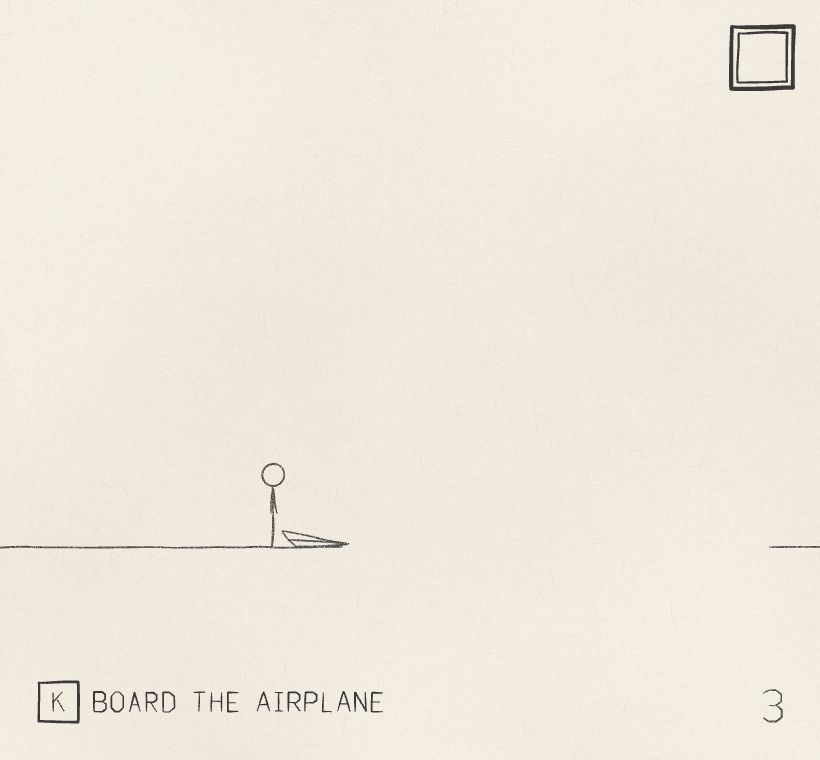
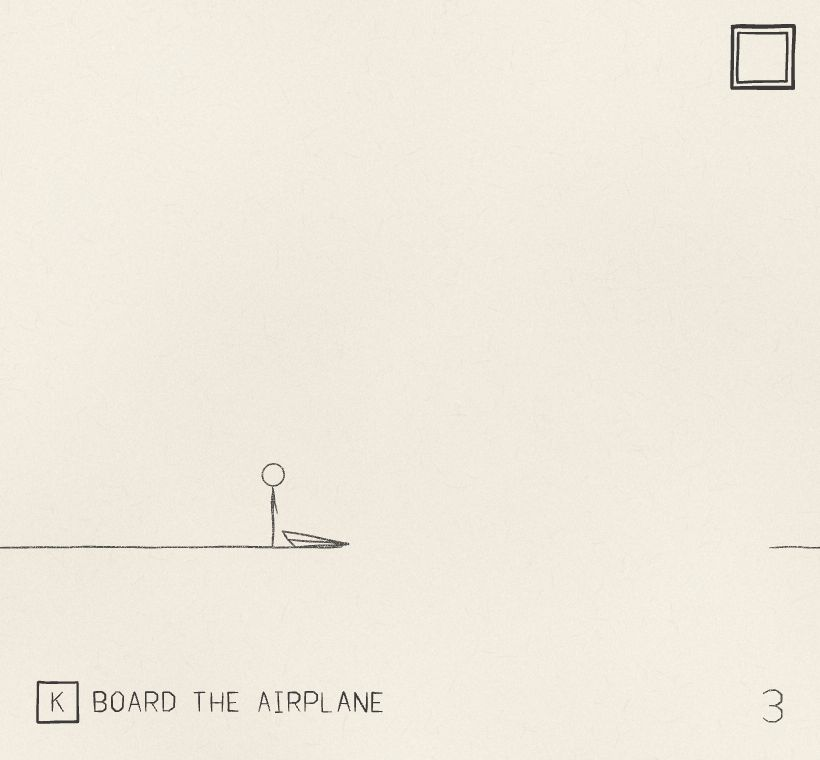
The prompt about the edge is there again when the level starts again
It went for good after his first boarding, which read as the message going
missing after a death. It is now hidden from his boarding until the level
starts again, as a note is there again.

diff --git a/packages/sim/src/features/airplane/airplane.test.ts b/packages/sim/src/features/airplane/airplane.test.ts
@@ -253,7 +253,7 @@ describe('that the airplane has to be taken to an edge', () => {
     expect(flyingHintOf(sim)).toBeNull();
   });
 
-  it('is never said again once he has boarded: not in flight, not after the level starts again, until the game is played again', () => {
+  it('is not said from his boarding on, and is said again when the level starts again after a lost flight', () => {
     const sim = carryingTheAirplane();
     walkTo(sim, EDGE - AIRPLANE.putDownAhead - AIRPLANE.length / 4);
     sim.step([INTERACT]);
@@ -261,13 +261,22 @@ describe('that the airplane has to be taken to an edge', () => {
     expect(stickManOf(sim).action).toBe('seated');
     expect(flyingHintOf(sim)).toBeNull();
     for (let tick = 0; tick < 600 && !(stickManOf(sim).action === 'standing' && stickManOf(sim).feet.x === level3.start.x); tick += 1) sim.step();
-    // The flight was lost: he is back at the start with an airplane in his hand, and knows where it goes.
+    // The flight was lost: he is back at the start with an airplane in his hand, and is told again where it goes.
     expect(itemSlotsOf(sim)[0]?.itemDefId).toBe(AIRPLANE_ITEM_ID);
-    expect(flyingHintOf(sim)).toBeNull();
-    sim.startOver();
-    giveItem(sim, AIRPLANE_ITEM_ID);
-    sim.startLevel(3);
     expect(flyingHintOf(sim)).toBe('takeItToAnEdge');
+  });
+
+  it('is not said after a flight that crossed: he stands on the far side with the airplane beside him', () => {
+    const sim = carryingTheAirplane();
+    walkTo(sim, EDGE - AIRPLANE.putDownAhead - AIRPLANE.length / 4);
+    sim.step([INTERACT]);
+    sim.step([INTERACT, { type: 'airplane/steer', direction: 1 }]);
+    for (let tick = 0; tick < CLIMB_TICKS_THAT_CROSS; tick += 1) sim.step();
+    sim.step([{ type: 'airplane/steer', direction: 0 }]);
+    for (let tick = 0; tick < 900 && stickManOf(sim).action === 'seated'; tick += 1) sim.step();
+    expect(stickManOf(sim).feet.x).toBeGreaterThan(FAR_SIDE);
+    expect(airplaneOf(sim)!.state).toBe('resting');
+    expect(flyingHintOf(sim)).toBeNull();
   });
 
   it('is not said on a level with no gap to fly over', () => {
@@ -293,6 +302,8 @@ describe('the airplane in a snapshot', () => {
 
 const EDGE = level3.floor[0]!.to.x;
 const FAR_SIDE = level3.floor[1]!.from.x;
+/** A climb of this many ticks from the boarding crosses level 3's gap: the middle of the window `level3.test.ts` holds. */
+const CLIMB_TICKS_THAT_CROSS = 28;
 
 const SELECT_SLOT_1: Command = { type: 'inventory/select', slot: 1 };
 const USE_ITEM: Command = { type: 'item/use' };

diff --git a/packages/sim/src/features/airplane/state.ts b/packages/sim/src/features/airplane/state.ts
@@ -30,5 +30,5 @@ export interface AirplaneState {
 /** It starts each level out of the world: an airplane left on the floor is gone when the level starts again. */
 export const airplaneSlice = defineSlice<AirplaneState>('airplane', () => ({ inWorld: false, x: 0, y: 0, facing: 1, carried: false, falling: false, verticalSpeed: 0, flying: false, sliding: false, speed: 0, pitch: 0, steering: 0 }));
 
-/** True once he has boarded an airplane, on any level: from then on he knows where one is boarded from, and is not told. It carries across levels and deaths. */
-export const hasBoardedSlice = defineSlice<boolean>('hasBoarded', () => false, { carriesAcrossLevels: true });
+/** True once he has boarded an airplane since the level started: he has found where one is boarded from, and is not told. It is false again when the level starts again, as a note is there again: one who fell may need telling a second time. */
+export const hasBoardedSlice = defineSlice<boolean>('hasBoarded', () => false);

diff --git a/packages/sim/src/features/airplane/index.ts b/packages/sim/src/features/airplane/index.ts
@@ -69,8 +69,8 @@ export function sitsOnAnEdge(sim: Sim): boolean {
 
 /**
  * True while he has an airplane that he has still to take to an edge: it is in his slot, on the floor away from an
- * edge or over his head, the level has an edge to fly from, and he has never boarded one. After his first boarding
- * he knows, and it is never true again in that game.
+ * edge or over his head, the level has an edge to fly from, and he has not boarded one since the level started. It is
+ * true again when the level starts again, a death included.
  */
 export function hasYetToTakeItToAnEdge(sim: Sim): boolean {
   const airplane = sim.stateOf(airplaneSlice);

diff --git a/packages/sim/src/features/airplane/view.ts b/packages/sim/src/features/airplane/view.ts
@@ -59,7 +59,7 @@ export function steeringAskedOf(handle: SimHandle): SteerDirection {
 
 /**
  * What he has still to be told about flying the airplane he has, or null when there is nothing to tell: that it has
- * to be taken to an edge, until he has boarded one once. For a view that says so beside the keys.
+ * to be taken to an edge, until he has boarded one on this try at the level. For a view that says so beside the keys.
  */
 export function flyingHintOf(handle: SimHandle): 'takeItToAnEdge' | null {
   if (!(handle instanceof Sim)) throw new TypeError('not a sim made by createSim or restoreSim');

diff --git a/AGENTS.md b/AGENTS.md
@@ -106,7 +106,7 @@ Dependency versions live in one place: the `catalog` in `pnpm-workspace.yaml`. P
 - A feature with a use for either key exports an answer, a function of the sim that returns `{ means, perform }` or `undefined` (`airplaneInteraction`, `letterInteraction`, `fallenItemInteraction`, `craftingUse`, `letterBeingRead`), and adds it to the list: never a second handler for the command. The order of the list is the priority.
 - `itemUseOf(sim)` and `interactionOf(sim)` say what a press would do right now; the HUD shows it beside the key (`client/src/hud/prompts.ts`, which needs words for every new meaning). The words name the thing they are done to ("lift the airplane", never "lift it"), and a key that would do nothing is not shown.
 - Making a recipe is one press: J with an item that a recipe he knows is made from makes it (`'craft'`), and the prompt names what (`craftingOf(sim).canMake`). There is no list to open while no two recipes are made from the same item; the first that are need one, with a way to move through it. Reading a letter says what it taught on the sheet and puts the item the recipe is made from in his hand, so the next prompt is the fold. While he reads, J does nothing and K puts the letter away.
-- That the airplane has to go to an edge is said with the prompts: while he has one that does not sit on an edge (in a slot, on the floor or over his head) and has never boarded one, `flyingHintOf(sim)` is `'takeItToAnEdge'` and the HUD writes "take the airplane to the edge" above the keys, in words with no key. It is never said again once he has boarded (`hasBoardedSlice`, which carries across levels and deaths and is reset when the game is played again). An outline of the airplane drawn on the ground at the edge was tried and taken out: it was too small to read where the view is pulled back.
+- That the airplane has to go to an edge is said with the prompts: while he has one that does not sit on an edge (in a slot, on the floor or over his head) and has not boarded one since the level started, `flyingHintOf(sim)` is `'takeItToAnEdge'` and the HUD writes "take the airplane to the edge" above the keys, in words with no key. It is not said from his boarding on (`hasBoardedSlice`), so not on the far side after a flight that crossed, and it is said again when the level starts again, a death included, as a note is there again: one who fell may need telling a second time. Said only until his first boarding of the whole game was tried and rejected. An outline of the airplane drawn on the ground at the edge was tried and taken out: it was too small to read where the view is pulled back.
 - K next to the airplane lifts it, except where it sits on an edge with its nose out over a gap (floor further on): there K boards it, which seats him in it and launches it. A held press to board was tried and rejected (ADR 0003).
 
 **Commands**

diff --git a/verifications/17-ux-pass-1/README.md b/verifications/17-ux-pass-1/README.md
@@ -24,7 +24,7 @@ Nothing about the levels is typed into a script: gaps, flags, notes and item ids
 | `01-a-page-turn.mjs` | A | The next level starts about a second after the flag; the finished sheet slides off to the left over most of a second with the next level already played under it; the new sheet has its number and name above him, rubbed out a few seconds later; a page number is in the corner of every sheet | `proof/01-a-page-turn.{txt,json}`, `proof/after/<window>/a-*`, clip at the wide window |
 | `02-b-first-sheet.mjs` | B | The game's name is on level 1; a walk note with its keys is beside him and is rubbed out once he has walked on, not before; a jump note is before level 2's gap, still there after a fall into it and rubbed out once he has jumped it; the notes move with the sheet | `proof/02-b-first-sheet.{txt,json}`, `proof/after/<window>/b-*` |
 | `03-c-camera.mjs` | C | On every frame from level 3's letter to the landing: the view shows twelve metres or more, never jumps, and the HUD stays the size it is; carrying, at the edge and in flight he is to one side with the level ahead of him; from the edge, before boarding, the far side is in view; after the landing the view eases back | `proof/03-c-camera.{txt,json}`, `proof/after/<window>/c-*`, clip at the narrow window |
-| `04-e-retry.mjs` | E | Once he has an airplane the prompts tell him to take it to the edge, until it sits on one, and never again once he has boarded; A read letter is gone once put away and what it taught stays; after a lost flight the level starts again with the airplane in his hand and the retry is a walk and two presses; with neither paper nor airplane a sheet of paper falls where he stands, in view, and one press picks it up | `proof/04-e-retry.{txt,json}`, `proof/after/<window>/e-*` |
+| `04-e-retry.mjs` | E | Once he has an airplane the prompts tell him to take it to the edge, until it sits on one, and again when the level starts again after a lost flight; A read letter is gone once put away and what it taught stays; after a lost flight the level starts again with the airplane in his hand and the retry is a walk and two presses; with neither paper nor airplane a sheet of paper falls where he stands, in view, and one press picks it up | `proof/04-e-retry.{txt,json}`, `proof/after/<window>/e-*` |
 | `05-g-ending.mjs` | G | "THE END" is written a stroke at a time and reaches neither side of the window; a key and "PLAY AGAIN" follow; he stands, walks about and cannot walk off the paper; Enter does nothing before it is offered and then turns the page back to level 1 with nothing kept | `proof/05-g-ending.{txt,json}`, `proof/after/<window>/g-*`, clip at the portrait window |
 
 The same moments are captured before and after under the same file names where there is a before (`proof/before/<window>/` and `proof/after/<window>/`).
